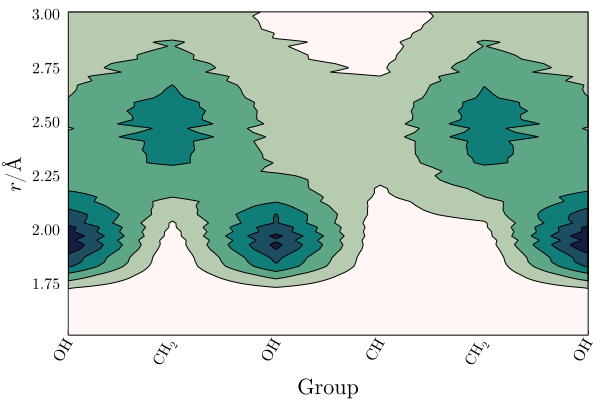
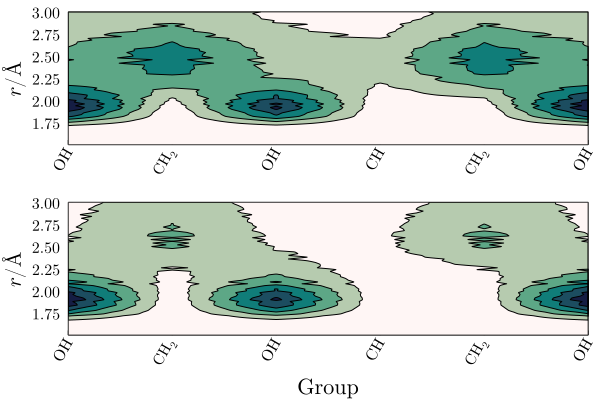
up examples

diff --git a/Glycerol_in_Water/README.md b/Glycerol_in_Water/README.md
@@ -6,19 +6,17 @@ This example illustrates the use of ComplexMixtures.jl to study the solution str
 
 <center><img width=300px src="./system.png"></center>
 
-## Glycerol auto-correlation function 
+## Glycerol-Glycerol and Water-Glycerol distribution functions
 
 ![](./results/mddf_kb.png)
 
-## Group contributions to Glyc-Glyc correlation 
+## Glycerol group contributions to MDDFs
 
-![](./results/mddf_glyc_groups.png)
+![](./results/mddf_groups.png)
+
+## 2D map of group contributions
 
 ![](./results/map2D_glyc_glyc.png)
-
-## Glycerol-Water correlation
-
-![](./results/mddf_water_glyc.png)
 
 
 ## References
